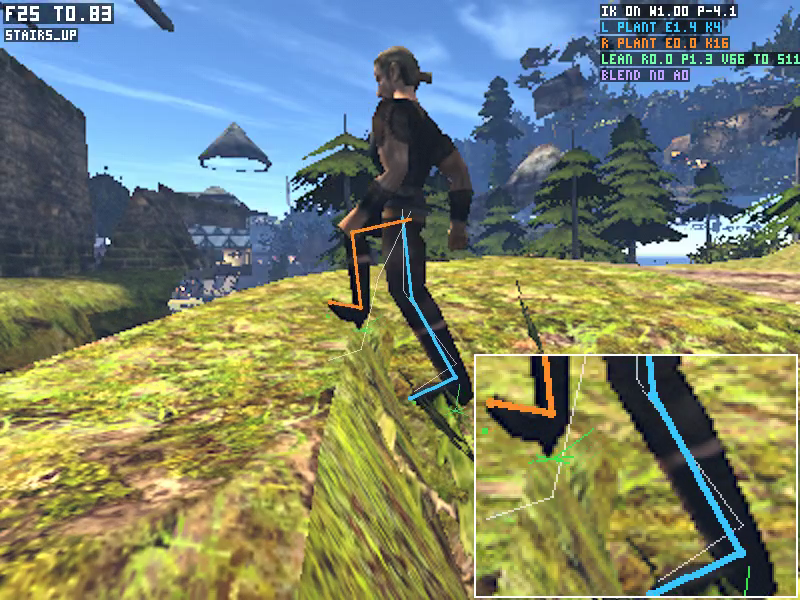
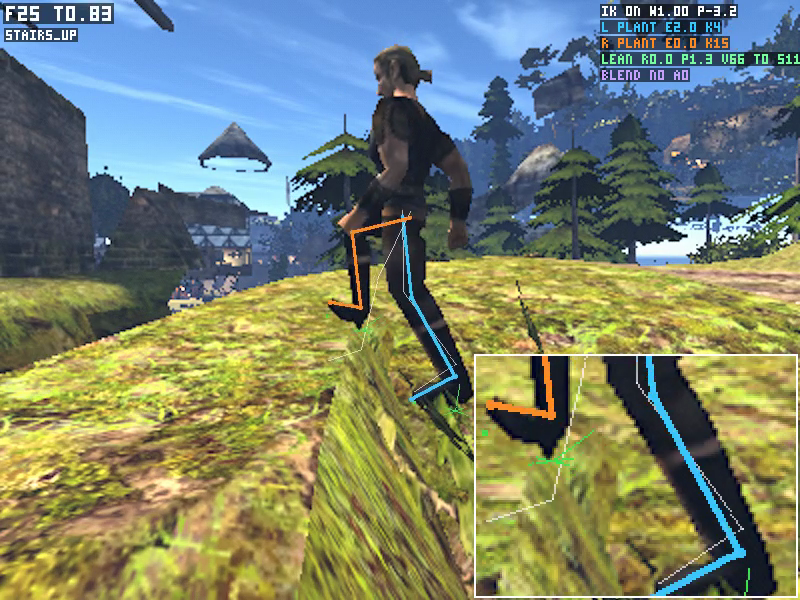
Smooth the hero model height during CharacterVirtual walking

diff --git a/scripts/character_virtual_compare.py b/scripts/character_virtual_compare.py
@@ -15,6 +15,7 @@ FRAME_FIELDS = {
     'ground_vx_cm_s', 'ground_vy_cm_s', 'ground_vz_cm_s', 'step_ms',
     'wall_ms', 'captured', 'normal_clock',
 }
+VISUAL_FIELDS = {'visual_x_cm', 'visual_y_cm', 'visual_z_cm'}
 
 WALKING_ROUTES = {'stairs_up', 'stairs_down', 'steep_slope', 'port_edge', 'doorway', 'tavern'}
 
@@ -87,7 +88,7 @@ def read_frames(frame_path, enabled, frames):
         booleans = {'move_held', 'in_air', 'falling', 'swimming', 'cv_enabled', 'cv_active', 'captured', 'normal_clock'}
         for index, raw in enumerate(reader, 2):
             row = {key: value if key == 'route' else flag(value) if key in booleans else number(value)
-                   for key, value in raw.items() if key in FRAME_FIELDS}
+                   for key, value in raw.items() if key in FRAME_FIELDS | VISUAL_FIELDS}
             require(row['route'] and row['dt_ms'] > 0 and row['step_ms'] >= 0 and row['wall_ms'] >= 0,
                     f'{frame_path}:{index}: invalid timing or route')
             require(row['cv_enabled'] is enabled, f'{frame_path}:{index}: configured mode differs from directory')
@@ -159,6 +160,12 @@ def route_result(run, name):
               # This is a comparison fixture: a recorded failure to reach the
               # goal (for example, sliding on an impassable slope) is evidence.
               'pass': True if starts and ends and frames and success is not None and elapsed is not None else None}
+    visual = frames and all(VISUAL_FIELDS <= row.keys() for row in frames)
+    visual_deltas = [abs(b['visual_y_cm'] - a['visual_y_cm']) for a, b in zip(frames, frames[1:])] if visual else []
+    if visual and starts and 'visual_start_cm' in starts[0]:
+        visual_deltas.append(abs(frames[0]['visual_y_cm'] - vector(starts[0]['visual_start_cm'])[1]))
+    result['maximum_visual_vertical_frame_delta_cm'] = max(visual_deltas, default=None)
+    result['maximum_visual_height_offset_cm'] = max((abs(row['visual_y_cm'] - row['y_cm']) for row in frames), default=None) if visual else None
     if 'saw_slide' in end:
         result['saw_slide'] = flag(end['saw_slide'])
     if starts:
@@ -442,13 +449,13 @@ def markdown(result):
     lines = [f'Проверки и полнота данных CharacterVirtual: **{state}**. Пропущенные данные обозначены «—». Исходы маршрутов и известные ограничения оцениваются отдельно.']
     if 'error' in result:
         return '\n'.join(lines + ['', result['error']]) + '\n'
-    lines += ['', '| Маршрут | Дошёл OFF / ON | Время, мс OFF / ON | Застревания >1с OFF / ON | Макс. ΔY, см OFF / ON | Новые падения ON | Кадры native CV ON |',
-              '|---|---|---:|---:|---:|---:|---:|']
+    lines += ['', '| Маршрут | Дошёл OFF / ON | Время, мс OFF / ON | Застревания >1с OFF / ON | Макс. ΔY физики, см OFF / ON | Макс. ΔY модели, см OFF / ON | Новые падения ON | Кадры native CV ON |',
+              '|---|---|---:|---:|---:|---:|---:|---:|']
     for row in result['routes']:
         before, after = row['off'], row['on']
         pair = lambda key: f'{display(before[key])} / {display(after[key])}'
         falls = row['falls']['on_only_positions_cm']
-        lines.append(f"| {display(row['route'])} | {pair('success')} | {pair('elapsed_ms')} | {pair('stalls_over_1s')} | {pair('maximum_vertical_frame_delta_cm')} | {display(len(falls) if falls is not None else None)} | {after['cv_active_frames']} |")
+        lines.append(f"| {display(row['route'])} | {pair('success')} | {pair('elapsed_ms')} | {pair('stalls_over_1s')} | {pair('maximum_vertical_frame_delta_cm')} | {pair('maximum_visual_vertical_frame_delta_cm')} | {display(len(falls) if falls is not None else None)} | {after['cv_active_frames']} |")
     perf = result['performance']
     lines += ['', f"Физика p95 OFF / ON: {display(perf['off'].get('physics_p95_ms'))} / {display(perf['on'].get('physics_p95_ms'))} мс; Δ {display(perf.get('physics_p95_delta_ms'))} мс (лимит +0,3). FPS OFF / ON: {display(perf['off'].get('mean_fps'))} / {display(perf['on'].get('mean_fps'))}; падение {display(perf.get('fps_drop_percent'))}% (лимит 5%). Учитываются только кадры без записи видео с обычными часами."]
     lines += ['', '| Предмет ON | Масса, кг | Гориз. смещение, см | Удержание хода, мс | Гориз. смещение / время хода, см/с | Контакт героя |', '|---|---:|---:|---:|---:|---|']

diff --git a/OpenGothic/common/world/objects/npc.cpp b/OpenGothic/common/world/objects/npc.cpp
@@ -343,6 +343,7 @@ void Npc::load(Serialize &fin, size_t id, std::string_view directory) {
     sym->set_instance(hnpc);
 
   fin.read(x,y,z,angle,sz);
+  resetCharacterVisualHeight();
   fin.read(wlkMode,trGuild,talentsSk,talentsVl,refuseTalkMilis);
   durtyTranform = TR_Pos|TR_Rot|TR_Scale;
   if(fin.version()<55)
@@ -541,6 +542,7 @@ bool Npc::setPosition(float ix, float iy, float iz) {
   x = ix;
   y = iy;
   z = iz;
+  resetCharacterVisualHeight();
   if(liveTeleport) {
     // Recreate at the destination instead of sweeping a kinematic body through
     // every item between a scripted teleport's endpoints.
@@ -1336,7 +1338,17 @@ Vec3 Npc::position() const {
   }
 
 Matrix4x4 Npc::transform() const {
-  return visual.transform();
+  auto matrix = visual.transform();
+  // Gameplay users of this matrix retain the exact origin. The presentation
+  // correction belongs to the model, its attachments and the foot IK frame only.
+  if(characterVisualYOffset!=0)
+    matrix.set(3,1,matrix.at(3,1)-characterVisualYOffset);
+  return matrix;
+  }
+
+Vec3 Npc::characterVisualPosition() const {
+  const auto& matrix = visual.transform();
+  return {matrix.at(3,0),matrix.at(3,1),matrix.at(3,2)};
   }
 
 Vec3 Npc::cameraBone(bool isFirstPerson) const {
@@ -6515,6 +6527,58 @@ void Npc::updateTransform() {
   updateAnimation(0, true);
   }
 
+void Npc::resetCharacterVisualHeight() {
+  if(characterVisualYOffset!=0)
+    durtyTranform |= TR_Pos;
+  characterVisualSteps.clear();
+  characterVisualYOffset = 0;
+  characterVisualHasSample = false;
+  characterVisualGroundSample = false;
+  }
+
+void Npc::updateCharacterVisualHeight() {
+  if(!isPlayer()) {
+    if(characterVisualHasSample)
+      resetCharacterVisualHeight();
+    return;
+    }
+  constexpr uint64_t blendMilliseconds = 100;
+  const auto now = owner.tickCount();
+  const bool groundState = !isDown() && !spellFrozen() && interactive()==nullptr &&
+                           (mvAlgo.state()==MoveAlgo::Run || mvAlgo.state()==MoveAlgo::Slide) &&
+                           !(bodyStateMasked()==BS_JUMP && isFlyAnim());
+  const bool enabled = Gothic::physicsFlags().characterVirtual &&
+                        mvAlgo.characterVirtualActive() && groundState;
+  const float previousOffset = characterVisualYOffset;
+
+  if(!enabled || (characterVisualHasSample && now<characterVisualSampleTick)) {
+    characterVisualSteps.clear();
+    characterVisualYOffset = 0;
+    }
+  else {
+    auto alive = std::find_if(characterVisualSteps.begin(),characterVisualSteps.end(),[now](const CharacterVisualStep& step) {
+      return now-step.tick<blendMilliseconds;
+      });
+    characterVisualSteps.erase(characterVisualSteps.begin(),alive);
+    // Applying the same finite filter to Run and Slide keeps the rendered height
+    // within the physical samples from the last 100 ms, including state changes.
+    if(characterVisualHasSample && characterVisualGroundSample && y!=characterVisualSampleY)
+      characterVisualSteps.push_back({now,characterVisualSampleY-y});
+    characterVisualYOffset = 0;
+    for(const auto& step:characterVisualSteps)
+      characterVisualYOffset += step.offset*(1.f-float(now-step.tick)/float(blendMilliseconds));
+    }
+
+  // Keep a baseline even while the freshly loaded controller is inactive. Its first
+  // floor correction can then blend from the saved height, while airborne handoffs snap.
+  characterVisualHasSample = true;
+  characterVisualGroundSample = groundState;
+  characterVisualSampleY = y;
+  characterVisualSampleTick = now;
+  if(characterVisualYOffset!=previousOffset)
+    durtyTranform |= TR_Pos;
+  }
+
 void Npc::updateAnimation(uint64_t dt, bool force) {
   FrameProfile::Scope timing(FrameProfile::Zone::ActorAnimationCpu,FrameProfile::watchedActor(this));
   const bool frozen = spellFrozen();
@@ -6522,6 +6586,8 @@ void Npc::updateAnimation(uint64_t dt, bool force) {
   const auto camera = Gothic::inst().camera();
   if(isPlayer() && camera!=nullptr && camera->isFree())
     dt = 0;
+
+  updateCharacterVisualHeight();
 
   if(durtyTranform) {
     const auto ground = groundNormal();
@@ -6535,10 +6601,11 @@ void Npc::updateAnimation(uint64_t dt, bool force) {
     if(durtyTranform==TR_Pos) {
       pos = visual.transform();
       pos.set(3,0,x);
-      pos.set(3,1,y);
+      pos.set(3,1,y+characterVisualYOffset);
       pos.set(3,2,z);
       } else {
       pos = mkPositionMatrix();
+      pos.set(3,1,pos.at(3,1)+characterVisualYOffset);
       }
 
     visual.setObjMatrix(pos,false);

diff --git a/OpenGothic/common/testbench.cpp b/OpenGothic/common/testbench.cpp
@@ -628,7 +628,7 @@ struct Bench {
   struct CharacterFrame {
     std::string route;
     uint64_t frame=0,time=0,dt=0;
-    Vec3 root,groundVelocity;
+    Vec3 root,groundVelocity,visualRoot;
     bool moving=false,air=false,fall=false,swim=false,enabled=false,active=false,captured=false,normal=false;
     float physics=0,wall=0;
   };
@@ -1214,13 +1214,14 @@ void finish() {
   stopRecording();
   if(!bench.characterFrames.empty()) {
     if(auto* file=std::fopen((outDir+"/character-frames.csv").c_str(),"w")) {
-      std::fprintf(file,"route,frame,t_game_ms,dt_ms,x_cm,y_cm,z_cm,move_held,in_air,falling,swimming,cv_enabled,cv_active,ground_vx_cm_s,ground_vy_cm_s,ground_vz_cm_s,step_ms,wall_ms,captured,normal_clock\n");
+      std::fprintf(file,"route,frame,t_game_ms,dt_ms,x_cm,y_cm,z_cm,move_held,in_air,falling,swimming,cv_enabled,cv_active,ground_vx_cm_s,ground_vy_cm_s,ground_vz_cm_s,step_ms,wall_ms,captured,normal_clock,visual_x_cm,visual_y_cm,visual_z_cm\n");
       for(const auto& row:bench.characterFrames)
-        std::fprintf(file,"%s,%llu,%llu,%llu,%.9g,%.9g,%.9g,%d,%d,%d,%d,%d,%d,%.9g,%.9g,%.9g,%.9g,%.9g,%d,%d\n",
+        std::fprintf(file,"%s,%llu,%llu,%llu,%.9g,%.9g,%.9g,%d,%d,%d,%d,%d,%d,%.9g,%.9g,%.9g,%.9g,%.9g,%d,%d,%.9g,%.9g,%.9g\n",
           row.route.c_str(),(unsigned long long)row.frame,(unsigned long long)row.time,(unsigned long long)row.dt,
           double(row.root.x),double(row.root.y),double(row.root.z),int(row.moving),int(row.air),int(row.fall),int(row.swim),
           int(row.enabled),int(row.active),double(row.groundVelocity.x),double(row.groundVelocity.y),double(row.groundVelocity.z),
-          double(row.physics),double(row.wall),int(row.captured),int(row.normal));
+          double(row.physics),double(row.wall),int(row.captured),int(row.normal),
+          double(row.visualRoot.x),double(row.visualRoot.y),double(row.visualRoot.z));
       std::fclose(file);
       } else event("character_error","\"reason\":\"cannot write native character frames\"");
     }
@@ -4017,7 +4018,7 @@ bool prepareCharacterRoute(World& world,Npc& player,const std::string& name,bool
 
 void characterSnapshot(World& world,Npc& player,std::string_view operation) {
   event("character_snapshot","\"operation\":"+jsonStr(operation)+",\"world\":"+jsonStr(world.name())+
-    ",\"root_cm\":"+ragdollVector(player.position())+",\"cv_enabled\":"+
+    ",\"root_cm\":"+ragdollVector(player.position())+",\"visual_root_cm\":"+ragdollVector(player.characterVisualPosition())+",\"cv_enabled\":"+
     (Gothic::physicsFlags().characterVirtual?"true":"false")+
     ",\"cv_active\":"+(player.characterVirtualActive()?"true":"false"));
   }
@@ -4050,7 +4051,7 @@ void characterFields(World& world,Npc& player,uint64_t dt,PlayerControl& ctrl) {
   const std::string rideLabel=bench.characterMover?"ride_mover":bench.characterPlatform?"ride_kinematic":"ride_dynamic";
   const std::string label=bench.characterMeasuring?"performance":route.active?route.name:bench.characterRiding?rideLabel:bench.characterPropRole;
   if(!normal || wall>0)bench.characterFrames.push_back({label,bench.characterFrame++,world.tickCount(),dt,position,
-    player.characterVirtualGroundVelocity(),move,player.isInAir(),player.isFalling(),player.isSwim(),
+    player.characterVirtualGroundVelocity(),player.characterVisualPosition(),move,player.isInAir(),player.isFalling(),player.isSwim(),
     Gothic::physicsFlags().characterVirtual,player.characterVirtualActive(),bench.rec && bench.recVideo,normal,
     world.physic()->physicsStats().stepMilliseconds,wall});
   if(bench.characterMeasuring) {
@@ -4216,6 +4217,7 @@ void exec(const std::string& line, World& w, Npc& pl, PlayerControl& ctrl) {
     route.began=w.tickCount();route.lastSupported=route.start;
     bench.characterHasWall=false;
     event("character_route_begin","\"route\":"+jsonStr(route.name)+",\"start_cm\":"+ragdollVector(route.start)+
+      ",\"visual_start_cm\":"+ragdollVector(pl.characterVisualPosition())+
       ",\"goal_cm\":"+ragdollVector(route.goal)+",\"tolerance_cm\":"+ragdollNumber(route.tolerance)+
       ",\"cv_enabled\":"+(Gothic::physicsFlags().characterVirtual?"true":"false"));
     }

diff --git a/OpenGothic/common/world/objects/npc.h b/OpenGothic/common/world/objects/npc.h
@@ -24,6 +24,7 @@
 #include <cstdint>
 #include <optional>
 #include <string>
+#include <vector>
 
 #include <zenkit/addon/daedalus.hh>
 
@@ -502,6 +503,7 @@ class Npc final {
     float     physicsMass() const;
     bool      characterVirtualActive() const { return mvAlgo.characterVirtualActive(); }
     Tempest::Vec3 characterVirtualGroundVelocity() const { return mvAlgo.characterVirtualGroundVelocity(); }
+    Tempest::Vec3 characterVisualPosition() const;
     bool      addSpellImpulse(const Tempest::Vec3& impulseNs, bool reaction=true, Npc* culprit=nullptr);
     Tempest::Vec3 spellVelocity() const { return mvAlgo.spellVelocity(); }
     bool      spellWhirling() const;
@@ -732,6 +734,8 @@ class Npc final {
     bool               isAlignedToGround() const;
     Tempest::Vec3      groundNormal() const;
     Tempest::Matrix4x4 mkPositionMatrix() const;
+    void               resetCharacterVisualHeight();
+    void               updateCharacterVisualHeight();
     void               releaseRagdoll(bool blend);
     bool               recoverRagdoll();
     bool               createRagdoll();
@@ -766,6 +770,17 @@ class Npc final {
     // visual props (cache)
     uint8_t                        durtyTranform=0;
     Tempest::Vec3                  lastGroundNormal;
+    // Transient presentation only: each grounded controller correction fades in 100 ms.
+    struct CharacterVisualStep {
+      uint64_t tick = 0;
+      float    offset = 0;
+      };
+    std::vector<CharacterVisualStep> characterVisualSteps;
+    float                          characterVisualYOffset = 0;
+    float                          characterVisualSampleY = 0;
+    uint64_t                       characterVisualSampleTick = 0;
+    bool                           characterVisualHasSample = false;
+    bool                           characterVisualGroundSample = false;
 
     DynamicWorld::NpcItem          physic;
     std::unique_ptr<Ragdoll>       living;

diff --git a/reports/physics/2026-10-16-character-virtual/validation-notes.md b/reports/physics/2026-10-16-character-virtual/validation-notes.md
@@ -1,31 +1,33 @@
 # CharacterVirtual: этап 5, шаг 1, проба руками
 
-Герой ходит на `CharacterVirtual` под флагом, по умолчанию **0**. Итоговая сборка прошла восемь маршрутов ON; OFF прошёл шесть, застряв на обеих лестницах. Застревания >1 с: **0 ON / 2 OFF**, новых падений с края в ON — **0**. Ограничение усилия уменьшило смещение стола 122 кг с **179,10 до 11,80 см** за 3 с удержания хода; кружка прошла **287,32 см**, бочка — **78,17 см**. p95 физики OFF/ON **0,3575 / 0,3723 мс**, прибавка **0,0148 мс** при лимите 0,3 мс; средний FPS **79,35 / 78,42**, снижение **1,17%** при лимите 5%. Реальный mover перевёз героя с дрейфом **0,332 см** и принят по решению пользователя. Включение по умолчанию ожидает ручной пробы.
+Герой ходит на `CharacterVirtual` под флагом, по умолчанию **0**. Первоначальный полный стенд прошёл восемь маршрутов ON; OFF прошёл шесть, застряв на обеих лестницах. После ревью заново сняты лестницы вверх/вниз, таверна и затронутый визуальным сглаживанием крутой склон: **4/4 ON**, без застреваний и новых падений. Скачок в таверне уменьшился с **12,477 до 0,0012 см**: лёгкая кружка больше не служит опорой. Видимая высота модели догоняет точный физический корень за **100 мс**; на лестницах максимум ΔY модели **6,545 / 6,235 см** вверх/вниз при физическом **8,118 / 6,236 см**. Застревания >1 с: **0 ON / 2 OFF**, новых падений с края в ON — **0**. Ограничение усилия уменьшило смещение стола 122 кг с **179,10 до 11,80 см** за 3 с удержания хода; кружка прошла **287,32 см**, бочка — **78,17 см**. На сборке до этих двух правок p95 физики OFF/ON **0,3575 / 0,3723 мс**, прибавка **0,0148 мс** при лимите 0,3 мс; средний FPS **79,35 / 78,42**, снижение **1,17%** при лимите 5%. Реальный mover перевёз героя с дрейфом **0,332 см** и принят по решению пользователя. Включение по умолчанию ожидает ручной пробы.
 
 ## Парные маршруты
 
-Одинаковые начальные координаты, цели, seed 73013, время 12:00 и реальные удерживаемые клавиши в независимых процессах. Ближние NPC заморожены до первого тика, чтобы важные диалоги не перехватывали управление; это только подготовка стенда. Видео и кадровые метрики записаны с фиксированным шагом 30 Гц, **это не измерение FPS**. Во всех **510/510** кадрах шести маршрутов ходьбы ON работал именно CV; прыжок и плавание используют прежний путь.
+Одинаковые начальные координаты, цели, seed 73013, время 12:00 и реальные удерживаемые клавиши в независимых процессах. Ближние NPC заморожены до первого тика, чтобы важные диалоги не перехватывали управление; это только подготовка стенда. Видео и кадровые метрики записаны с фиксированным шагом 30 Гц, **это не измерение FPS**. В новых дублях лестниц, таверны и крутого склона CV работал во всех **345/345** кадрах; прежний полный дубль подтвердил **510/510** кадров шести маршрутов ходьбы. Прыжок и плавание используют прежний путь. Столбцы физики и модели разделены: `visual_y_cm` — фактическая трансляция модели после сглаживания, без анимационного движения костей. Для старых видео этот показатель не записывался и обозначен «—».
 
-| Маршрут | Дошёл OFF / ON | Время, с OFF / ON | Застревания >1 с OFF / ON | Макс. ΔY за кадр, см OFF / ON | Падения только ON | Видео |
-|---|---|---:|---:|---:|---:|---|
-| Лестница вверх | нет / да | 2,500* / 2,033 | 1 / 0 | 1,166 / 8,118 | 0 | [OFF](../../../.bench/character-virtual/routes-off-release/stairs_up.mp4) / [ON](../../../.bench/character-virtual/routes-on-release/stairs_up.mp4) |
-| Лестница вниз | нет / да | 2,500* / 1,200 | 1 / 0 | 0,198 / 6,236 | 0 | [OFF](../../../.bench/character-virtual/routes-off-release/stairs_down.mp4) / [ON](../../../.bench/character-virtual/routes-on-release/stairs_down.mp4) |
-| Крутой склон вниз | да / да | 0,567 / 0,200 | 0 / 0 | 16,047 / 21,137 | 0 | [OFF](../../../.bench/character-virtual/routes-off-release/steep_slope.mp4) / [ON](../../../.bench/character-virtual/routes-on-release/steep_slope.mp4) |
-| Край порта | да / да | 1,800 / 1,800 | 0 / 0 | 0,442 / 0,196 | 0 | [OFF](../../../.bench/character-virtual/port-off-open/port_edge.mp4) / [ON](../../../.bench/character-virtual/port-on-open/port_edge.mp4) |
-| Узкий проём | да / да | 1,067 / 1,067 | 0 / 0 | 1,865 / 1,922 | 0 | [OFF](../../../.bench/character-virtual/routes-off-release/doorway.mp4) / [ON](../../../.bench/character-virtual/routes-on-release/doorway.mp4) |
-| Таверна Корагона | да / да | 1,900 / 2,067 | 0 / 0 | 0,001 / 12,477 | 0 | [OFF](../../../.bench/character-virtual/routes-off-release/tavern.mp4) / [ON](../../../.bench/character-virtual/routes-on-release/tavern.mp4) |
-| Прыжок на уступ | да / да | 0,933 / 0,933 | 0 / 0 | 9,014 / 9,014 | 0 | [OFF](../../../.bench/character-virtual/routes-off-release/jump_ledge.mp4) / [ON](../../../.bench/character-virtual/routes-on-release/jump_ledge.mp4) |
-| Вход в воду | да / да | 4,733 / 4,733 | 0 / 0 | 5,688 / 5,688 | 0 | [OFF](../../../.bench/character-virtual/routes-off-release/water_entry.mp4) / [ON](../../../.bench/character-virtual/routes-on-release/water_entry.mp4) |
+| Маршрут | Дошёл OFF / ON | Время, с OFF / ON | Застревания >1 с OFF / ON | Макс. ΔY физики, см OFF / ON | Макс. ΔY модели, см OFF / ON | Падения только ON | Видео |
+|---|---|---:|---:|---:|---:|---:|---|
+| Лестница вверх | нет / да | 2,500* / 2,033 | 1 / 0 | 1,166 / 8,118 | 1,166 / 6,545 | 0 | [OFF](../../../.bench/character-virtual/review-final-off/stairs_up.mp4) / [ON](../../../.bench/character-virtual/review-final-on/stairs_up.mp4) |
+| Лестница вниз | нет / да | 2,500* / 1,200 | 1 / 0 | 0,198 / 6,236 | 0,198 / 6,235 | 0 | [OFF](../../../.bench/character-virtual/review-final-off/stairs_down.mp4) / [ON](../../../.bench/character-virtual/review-final-on/stairs_down.mp4) |
+| Крутой склон вниз | да / да | 0,567 / 0,200 | 0 / 0 | 16,047 / 21,137 | 16,047 / 20,409 | 0 | [OFF](../../../.bench/character-virtual/review-slope-off/steep_slope.mp4) / [ON](../../../.bench/character-virtual/review-slope-on/steep_slope.mp4) |
+| Край порта | да / да | 1,800 / 1,800 | 0 / 0 | 0,442 / 0,196 | — / — | 0 | [OFF](../../../.bench/character-virtual/port-off-open/port_edge.mp4) / [ON](../../../.bench/character-virtual/port-on-open/port_edge.mp4) |
+| Узкий проём | да / да | 1,067 / 1,067 | 0 / 0 | 1,865 / 1,922 | — / — | 0 | [OFF](../../../.bench/character-virtual/routes-off-release/doorway.mp4) / [ON](../../../.bench/character-virtual/routes-on-release/doorway.mp4) |
+| Таверна Корагона | да / да | 1,900 / 2,000 | 0 / 0 | 0,0010 / 0,0012 | 0,0010 / 0,0010 | 0 | [OFF](../../../.bench/character-virtual/review-final-off/tavern.mp4) / [ON](../../../.bench/character-virtual/review-final-on/tavern.mp4) |
+| Прыжок на уступ | да / да | 0,933 / 0,933 | 0 / 0 | 9,014 / 9,014 | — / — | 0 | [OFF](../../../.bench/character-virtual/routes-off-release/jump_ledge.mp4) / [ON](../../../.bench/character-virtual/routes-on-release/jump_ledge.mp4) |
+| Вход в воду | да / да | 4,733 / 4,733 | 0 / 0 | 5,688 / 5,688 | — / — | 0 | [OFF](../../../.bench/character-virtual/routes-off-release/water_entry.mp4) / [ON](../../../.bench/character-virtual/routes-on-release/water_entry.mp4) |
 
-\* Окно закончилось, цель не достигнута. Застревание — удерживаемый ход в радиусе 5 см более 1000 мс. Максимальный ΔY включает остановку после достижения цели. Падения сравниваются по нативному состоянию и месту; запланированный прыжок и вход в воду исключены. На склоне **64,453°** оба режима действительно вошли в `Slide` (`saw_slide=true`, порог гильдии 50°), у воды оба вошли в `Swim`. Для ручной пробы особенно важны более быстрый спуск ON и скачок **12,48 см** в таверне. На склоне рядом заморожен зверь, его столкновения остаются в сцене.
+\* Окно закончилось, цель не достигнута. Застревание — удерживаемый ход в радиусе 5 см более 1000 мс. Максимальный ΔY включает остановку после достижения цели. Падения сравниваются по нативному состоянию и месту; запланированный прыжок и вход в воду исключены. На склоне **64,453°** оба режима действительно вошли в `Slide` (`saw_slide=true`, порог гильдии 50°), у воды оба вошли в `Swim`. Для ручной пробы особенно важен более быстрый спуск ON. На лестнице вниз несколько кадров подряд дают около 6 см снижения: окно 100 мс сглаживает начало и остановку, но не убирает эту скорость. Максимальная вторая разность Y (изменение межкадрового смещения) в ON снижается с **6,213 до 2,852 см** вверх и с **3,956 до 1,980 см** вниз. Физическая траектория лестниц сохранилась точно (максимальное XYZ-расхождение с прежним полным дублем **0 см** в обоих режимах); мягкость не равна OFF. На быстром крутом спуске визуальное отставание от физического Y достигает **41,734 см** внутри окна 100 мс — это заметный компромисс общего сглаживания `Run/Slide`, который следует оценить руками. На лестницах максимальное отставание **12,612 / 12,226 см** вверх/вниз. На склоне рядом заморожен зверь, его столкновения остаются в сцене.
 
-Камеры уступа и воды подняты и отдалены, порт переснят отдельно с подбором видимого угла. Данные остальных семи маршрутов — `routes-{off,on}-release/{events.jsonl,character-frames.csv}`; данные открытого края порта `NW_CITY_HABOUR_06_B` — `port-{off,on}-open/`. Первоначальные `off-prep`, старт склона у подножия, полоса у стены вместо открытого края порта и прерванный при совпадении запусков дубль не входят в эту таблицу.
+Текущие лестницы и таверна — `review-final-{off,on}/{events.jsonl,character-frames.csv}`. Камеры уступа и воды подняты и отдалены, порт переснят отдельно с подбором видимого угла. Склон переснят отдельно в исходном режиме `run`: `review-slope-{off,on}/`. Порт, проём, прыжок и вода приведены из предыдущей сборки: `routes-{off,on}-release/{events.jsonl,character-frames.csv}`; данные открытого края порта `NW_CITY_HABOUR_06_B` — `port-{off,on}-open/`. Первоначальные `off-prep`, старт склона у подножия, полоса у стены вместо открытого края порта и прерванный при совпадении запусков дубль не входят в эту таблицу. Подготовочный склон в режиме `walk` внутри `review-final-*` исключён; таблица использует отдельный склон `run`.
 
 ## Толчок и опоры
 
-Единственная новая правка механики — дозирование усилия. Общий бюджет импульса за один `move`: `min(mHero × g, 450 Н) × dt`. Все контакты, повторные проверки ступеней и все тела делят этот бюджет. На одно тело дополнительно приходится доля `mHero / (mHero + mBody)`; это непрерывная модель усилия при обычной ходьбе без упора, одинаковая для Item и vob. Импульс прикладывается в точку контакта с учётом инерции. Вертикальный вес `mHero × g` на опоре остаётся прежним. Один только native `mMaxStrength=450` дал столу 184,50 см: Jolt ограничивает отдельный контакт, а сопротивление пола для такого стола ниже 450 Н. Поэтому итог использует общий бюджет и долю по массе.
+После ревью лёгкие динамические `Item` и movable vob **<10 кг** не служат опорой; горизонтальный толчок в исходную точку контакта сохраняется. Автошаг и подъём капсулы о бок бочки/стола запрещены, тяжёлая опора под уже стоящим героем и настоящие mover сохраняются. Нативные контракты: утварь 5,8 кг сдвинулась на **64,357 / 69,208 см** (Item / movable), подъём стоп **0,000 см**; низкий стол 122 кг остановил героя на **56,017 см** при центре стола **100 см**, подъём стоп **0,000 см**. Лёгкое тело без пола не удерживает героя. В игре маршрут таверны проходит через место прежней кружки без подъёма физического корня. На видео героя кратко закрывает стена в **0,65–0,80 с**; сам участок кружки в **0,95–1,70 с** виден.
 
-Одинаковые 0,7 с покоя и **3,0 с удержания хода**; смещение по горизонтали от исходной позиции тела. Последний стол не пропущен насквозь (`passed_through=false`), реальный контакт героя подтверждён у всех четырёх предметов. «После» — итоговая сборка.
+Дозирование усилия сохраняется: общий бюджет импульса за один `move` — `min(mHero × g, 450 Н) × dt`. Все контакты, повторные проверки ступеней и все тела делят этот бюджет. На одно тело дополнительно приходится доля `mHero / (mHero + mBody)`; это непрерывная модель усилия при обычной ходьбе без упора, одинаковая для Item и vob. Импульс прикладывается в точку контакта с учётом инерции. Вертикальный вес `mHero × g` на опоре остаётся прежним. Один только native `mMaxStrength=450` дал столу 184,50 см: Jolt ограничивает отдельный контакт, а сопротивление пола для такого стола ниже 450 Н. Поэтому итог использует общий бюджет и долю по массе.
+
+Одинаковые 0,7 с покоя и **3,0 с удержания хода**; смещение по горизонтали от исходной позиции тела. Последний стол не пропущен насквозь (`passed_through=false`), реальный контакт героя подтверждён у всех четырёх предметов. «После» — сборка с общим бюджетом усилия до правок опоры и сглаживания; этот отдельный стенд повторно не запускался.
 
 | Предмет | Масса, кг | До, см | После, см | После / 3 с, см/с | Видео после |
 |---|---:|---:|---:|---:|---|
@@ -40,13 +42,13 @@
 
 ## Проверки
 
-- Сборка `Gothic2Notr` (`RelWithDebInfo`, `OPENGOTHIC_ENABLE_APP_CADENCE=ON`) и `check-physics` — **PASS**. Нативные контракты: ступени вверх 74 кадра / вниз 67, скольжение вдоль стены 750 см, 1 кг / 122 кг — **258,98 / 0,001 см**. Два тела получили **36 + 9 = 45 Н·с** за 0,1 с, подтверждая общий лимит 450 Н. Примитивная кинематическая опора перенесла героя на 60 см по X и 18 см по Y; NPC не сдвинут. Лог: `.bench-check-physics-human-budget.log`.
-- Производительность — **PASS**: отдельные 30-секундные окна без видео и с неподвижной камерой, ход вперёд/назад. Завершённых app-кадров **2381 OFF / 2353 ON**, нативных отсчётов физики **3446 / 3432**. p95 **0,3575 / 0,3723 мс**, Δ **+0,0148 мс**; FPS **79,35 / 78,42**, потеря **1,17%**. Источники: `.bench/character-virtual/perf-{off,on}/appcadence.csv`, metadata `.json`, `character-frames.csv`.
-- Сейв и загрузка новым процессом: корень **[18337,1992; 1097,86035; 1481,9519] см** одинаков в сейвах OFF/ON и сразу после загрузки; ошибка **0 / 0 см**. Первый снимок сделан до первого world tick. **Известное отличие после загрузки:** за следующие 0,533 с ON усаживается на ступенях на **4,215 см**, OFF — на 0,00024 см; разница режимов после усадки **4,215 см**. Это не ошибка сериализации, но для ручной пробы результат не скрыт. Источники: `save-{off,on}/events.jsonl`, `reload-{off,on}/events.jsonl` в `.bench/character-virtual/`.
-- `m5b`, `LLM=fake`, флаг ON на итоговой сборке: **14/14**, **0 failed**, один игровой запуск. Логи: `.bench/character-virtual/m5b-final/{server.log,game.log}`, начальный флаг `character_virtual=1` в `Gothic.ini`.
+- Сборка `Gothic2Notr` (`RelWithDebInfo`, `OPENGOTHIC_ENABLE_APP_CADENCE=ON`) и `check-physics` — **PASS**. Нативные контракты: ступени вверх 74 кадра / вниз 67, скольжение вдоль стены 750 см, 1 кг / 122 кг — **300,26 / 0,00 см**. Новые случаи утвари и низкого стола выше прошли. Два тела получили **36 + 9 = 45 Н·с** за 0,1 с, подтверждая общий лимит 450 Н. Примитивная кинематическая опора перенесла героя на 60 см по X и 18 см по Y; NPC не сдвинут. Лог: `.bench-check-physics-review-blend.log`.
+- Производительность до этих двух правок — **PASS**, по указанию пользователя повторно не измерялась: отдельные 30-секундные окна без видео и с неподвижной камерой, ход вперёд/назад. Завершённых app-кадров **2381 OFF / 2353 ON**, нативных отсчётов физики **3446 / 3432**. p95 **0,3575 / 0,3723 мс**, Δ **+0,0148 мс**; FPS **79,35 / 78,42**, потеря **1,17%**. Источники: `.bench/character-virtual/perf-{off,on}/appcadence.csv`, metadata `.json`, `character-frames.csv`.
+- Сейв и загрузка новым процессом: корень **[18337,1992; 1097,86035; 1481,9519] см** одинаков в сейвах OFF/ON и сразу после загрузки; ошибка **0 / 0 см**. Первый снимок сделан до первого world tick. **Известное отличие после загрузки:** за следующие 0,533 с ON смещается на **4,215 см**: ΔXYZ **[+4,014; −0,751; −1,045] см**, OFF — на 0,00024 см по Y. Таким образом, вертикальная усадка только **0,751 см**, остальное — X/Z. Новый фильтр предназначен для вертикальной части; горизонтальный сдвиг остаётся известным отличием. Сериализация и физическая позиция не изменены, save/load после этих правок повторно не запускался. Источники: `save-{off,on}/events.jsonl`, `reload-{off,on}/events.jsonl` в `.bench/character-virtual/`.
+- `m5b` до этих двух правок, `LLM=fake`, флаг ON: **14/14**, **0 failed**, один игровой запуск; по указанию пользователя повторно не запускался. Логи: `.bench/character-virtual/m5b-final/{server.log,game.log}`, начальный флаг `character_virtual=1` в `Gothic.ini`.
 - Полный pytest и общая e2e-регрессия не запускались. На Mac ожидались чужие игры и pytest, чужие процессы не останавливались. Видео, логи и сейвы лежат локально, большие файлы в git не добавлены.
 
-Foot IK на итоговой сборке: `stairs_up`, кадр **25**, **0,833 с**, до финиша. `ik_valid=1`, `ik_on=1`, `ik_hardoff=0`, `ik_w=1`, `bad=0`; поверхности под ногами различаются на **33,27 см**. Поправка высоты левой/правой лодыжки **−6,95 / +24,95 см**, ошибка контакта **1,36 / 0 см**. Тонкие белые кости — исходная анимация, цветные — результат IK.
+Foot IK на итоговой сборке: `stairs_up`, кадр **25**, **0,833 с**, до финиша. `ik_valid=1`, `ik_on=1`, `ik_hardoff=0`, `ik_w=1`, `bad=0`; поверхности под ногами различаются на **33,27 см**. Поправка высоты левой/правой лодыжки **−6,15 / +25,10 см**, ошибка контакта **2,01 / 0 см**. Кадр извлечён из нового `review-final-on/stairs_up.mp4`. Тонкие белые кости — исходная анимация, цветные — результат IK.
 
 ![Foot IK на ступенях, CharacterVirtual ON, кадр 25](foot-ik-stairs-on.png)
 
@@ -75,4 +77,4 @@ F2 → `toggle character_virtual`: сообщение показывает ON/OF
 | Прыжок на уступ | `goto pos 13678.11 976.68 -1670.83` | 14008.11, 1045.98, -1670.83 | 0,00 |
 | Вход в воду | `goto pos -3381.40 -481.83 12703.16` | -4733.70, -701.88, 13065.51 | 165,00 |
 
-Сравнить подъём/спуск и положение стоп, скорость скольжения на склоне, прилипание у портового края, проход двери и мебели, переход к прыжку и воде. В таверне отдельно оценить скачок высоты ON, толчок стола и обычную ходьбу среди мебели. После save/load на ступенях обратить внимание на усадку ON. Решение о включении флага по умолчанию остаётся за пользователем после этой пробы.
+Сравнить подъём/спуск и положение стоп, скорость скольжения на склоне, прилипание у портового края, проход двери и мебели, переход к прыжку и воде. В таверне пройти место кружки на полу (z≈1400): герой должен толкать её без подъёма; проверить толчок стола и обычную ходьбу среди мебели. На лестницах сравнить начало и остановку вертикального движения модели после сглаживания 100 мс, особенно быстрый спуск ON. После save/load проверить отдельно вертикальную усадку и горизонтальное смещение ON. Решение о включении флага по умолчанию остаётся за пользователем после этой пробы.

diff --git a/docs/physics.md b/docs/physics.md
@@ -1,6 +1,6 @@
 # Физика: Jolt вместо Bullet
 
-Статус: **этапы 1–4 закрыты**. Ragdoll, подвижные vob и физический шум включены по умолчанию; отключение — `[GAME] ragdoll=0` / `movable_vobs=0` / `physics_noise=0` или соответствующий Marvin `toggle`. С v37 NPC видит следы стрел и мебели, помнит их как «видел сам», а грохот — как «слышал сам»; виновник остаётся в движке и сейве. Стенд: **2/2** следа после загрузки новым процессом, возраст **17 минут**, за стеной и после сдвига на 10 см — **0**, лимит **6 из 9**. Полный `pytest` — **757 passed, 11 skipped**, e2e `seen` — **10/10**, контроль `m5b` — **13/14** и на PR, и на независимой сборке `origin/main` с тем же сейвом: `monster_event` не пришёл, статусы всех 14 проверок совпали, исключений в обоих логах сервера **0**. Это не регрессия PR. Пункт 5 этапа 4 закрыт: `trace` ловит ложь о давности стрелы с fake **20/20** и в двух живых прогонах по **20/20**; оба раза принят `catch_lie` со строкой следа **В2** и записан `caught`, отрицательный контроль — без обвинения. Этап 5: шаг 1 — герой на `CharacterVirtual` под флагом (по умолчанию **0**), стенд ON/OFF снят, сборка для пробы руками: маршруты **8/8 ON / 6/8 OFF**, FPS **−1,17%**, p95 физики **+0,0148 мс**. Реальный mover принят с дрейфом **0,332 см**; искусственная опора с дрейфом 28,013 см остаётся известной проблемой. Этапы 6–7 не начаты. [Подвижные vob и сейв](../reports/physics/2026-10-16-movable-vobs/validation-notes.md), [шум](../reports/physics/2026-10-16-physics-noise/validation-notes.md), [следы и сравнение с main](../reports/physics/2026-10-16-traces/validation-notes.md).
+Статус: **этапы 1–4 закрыты**. Ragdoll, подвижные vob и физический шум включены по умолчанию; отключение — `[GAME] ragdoll=0` / `movable_vobs=0` / `physics_noise=0` или соответствующий Marvin `toggle`. С v37 NPC видит следы стрел и мебели, помнит их как «видел сам», а грохот — как «слышал сам»; виновник остаётся в движке и сейве. Стенд: **2/2** следа после загрузки новым процессом, возраст **17 минут**, за стеной и после сдвига на 10 см — **0**, лимит **6 из 9**. Полный `pytest` — **757 passed, 11 skipped**, e2e `seen` — **10/10**, контроль `m5b` — **13/14** и на PR, и на независимой сборке `origin/main` с тем же сейвом: `monster_event` не пришёл, статусы всех 14 проверок совпали, исключений в обоих логах сервера **0**. Это не регрессия PR. Пункт 5 этапа 4 закрыт: `trace` ловит ложь о давности стрелы с fake **20/20** и в двух живых прогонах по **20/20**; оба раза принят `catch_lie` со строкой следа **В2** и записан `caught`, отрицательный контроль — без обвинения. Этап 5: шаг 1 — герой на `CharacterVirtual` под флагом (по умолчанию **0**), стенд ON/OFF снят, сборка для пробы руками; после ревью утварь не служит ступенькой, высота модели сглаживается за 100 мс. Маршруты полного стенда **8/8 ON / 6/8 OFF**, FPS **−1,17%**, p95 физики **+0,0148 мс**. Реальный mover принят с дрейфом **0,332 см**; искусственная опора с дрейфом 28,013 см остаётся известной проблемой. Этапы 6–7 не начаты. [Подвижные vob и сейв](../reports/physics/2026-10-16-movable-vobs/validation-notes.md), [шум](../reports/physics/2026-10-16-physics-noise/validation-notes.md), [следы и сравнение с main](../reports/physics/2026-10-16-traces/validation-notes.md).
 
 Игра использует Jolt вместо Bullet. Сборки игры, редактора и физических контрактов проходят; тест 100 000 лучей проходит. Оставшиеся различия sphere sweep и p95 `crossbow` / `quad-wolf` приняты пользователем как не влияющие на игру. [Реализация и проверки](../reports/physics/2026-10-14-jolt-stage1/validation-notes.md).
 
@@ -245,7 +245,7 @@ Jolt повторяет симуляцию при тех же входах и т
 
 `CharacterVirtual` для героя и NPC: толкать предметы, стоять на подвижном (подъёмники, корабль), склоны и ступени. Меняет ощущение игры, поэтому решаем после стенда и пробы руками.
 
-**Шаг 1 — герой, стенд ON/OFF и сборка для пробы руками.** Ходьба и бег под флагом `[GAME] character_virtual=1`; по умолчанию **0** до пользовательской пробы. Переключение без перезапуска — Marvin `toggle character_virtual`. `MoveAlgo` сохраняет состояния, анимации и желаемое смещение; `CharacterVirtual` решает столкновения при ходьбе, ступени, склоны и опору. Толчок `Item` и подвижных vob ограничен общим бюджетом **450 Н** и долей по массе тела: стол 122 кг сдвигается на **11,80 см** вместо 179,10 см за 3 с. Прыжки, падение, лазание, плавание и ныряние сохраняют прежний путь; NPC, поиск пути и распорядки не меняются. Маршруты **8/8 ON / 6/8 OFF**, новых падений ON **0**; p95 физики **+0,0148 мс**, FPS **−1,17%**. Реальный mover с дрейфом **0,332 см** принят пользователем, дрейф искусственной опоры **28,013 см** оставлен известным. Сейв восстанавливает точку точно, но ON после загрузки усаживается на ступенях на **4,215 см**; foot IK подтверждён кадром. Сборка, `check-physics` и итоговый `m5b` **14/14** прошли. Решение о включении по умолчанию — после ручной пробы. [Числа, парные видео, ограничения и как попробовать](../reports/physics/2026-10-16-character-virtual/validation-notes.md).
+**Шаг 1 — герой, стенд ON/OFF и сборка для пробы руками.** Ходьба и бег под флагом `[GAME] character_virtual=1`; по умолчанию **0** до пользовательской пробы. Переключение без перезапуска — Marvin `toggle character_virtual`. `MoveAlgo` сохраняет состояния, анимации и желаемое смещение; `CharacterVirtual` решает столкновения при ходьбе, ступени, склоны и опору. Лёгкие `Item` и подвижные vob <10 кг герой толкает без опоры на них; бочка и стол не становятся автоматической ступенькой. Видимая высота модели сглаживается за **100 мс** при точном физическом корне. Толчок ограничен общим бюджетом **450 Н** и долей по массе тела: стол 122 кг сдвигается на **11,80 см** вместо 179,10 см за 3 с. Прыжки, падение, лазание, плавание и ныряние сохраняют прежний путь; NPC, поиск пути и распорядки не меняются. Маршруты **8/8 ON / 6/8 OFF**, новых падений ON **0**; p95 физики **+0,0148 мс**, FPS **−1,17%**. Реальный mover с дрейфом **0,332 см** принят пользователем, дрейф искусственной опоры **28,013 см** оставлен известным. После ревью заново сняты лестницы, таверна и крутой склон: **4/4 ON**, скачок на кружке **12,477 → 0,0012 см**. Максимум ΔY модели на лестницах вверх/вниз **6,545 / 6,235 см**; быстрый спуск и визуальное отставание на крутом склоне остаются предметом ручной пробы. Сейв восстанавливает точку точно; прежнее последующее смещение **4,215 см** состоит из ΔXYZ **[+4,014; −0,751; −1,045] см**. Сглаживание высоты относится к вертикальной части, X/Z не исправлены. Foot IK подтверждён новым кадром. Сборка и `check-physics` после ревью прошли; FPS/p95 и `m5b` **14/14** приведены с предыдущей сборки, повторно не запускались. Решение о включении по умолчанию — после ручной пробы. [Числа, парные видео, ограничения и как попробовать](../reports/physics/2026-10-16-character-virtual/validation-notes.md).
 
 ### Этап 6. Разрушение, вода, ткань
 

diff --git a/scripts/bench/README.md b/scripts/bench/README.md
@@ -534,14 +534,19 @@ exercise the legacy-path handoff.
 
 Held movement is released as soon as the destination is reached; the remainder of the video records the natural stop.
 Each route has its own MP4 and ordinary IK metrics; `foot-ik-stairs.png` is captured on the first
-stair route. `character-frames.csv` additionally records root position, held movement, falling,
+stair route. `character-frames.csv` additionally records the exact physical root and the actual
+model translation (`visual_x_cm`, `visual_y_cm`, `visual_z_cm`), held movement, falling,
 swimming, actual CV use, support velocity and native physics cost after each world tick. A route
 succeeds only after crossing its destination plane within the stated lateral/height tolerance;
 water entry additionally requires the real swimming state. Route-end `saw_slide` establishes whether the
 legacy slope take entered the actual slide state. The analyzer counts continuous held
 input with less than 5 cm of horizontal progress for more than one second, maximum absolute Y
 change per frame and native falls more than 100 cm below the last supported root (planned ledge
-jumps and swimming are excluded). Unmatched falls are compared within a 1 m spatial radius.
+jumps and swimming are excluded). Physical and visual maximum Y changes are reported separately;
+older CSVs without visual columns leave that measurement empty. Unmatched falls are compared
+within a 1 m spatial radius. `character-virtual-review` retakes stairs up/down, the tavern
+and the steep slope after support-filter or visual-height changes, using the same OFF/ON
+environment above. The slope checks the shared Run/Slide presentation blend.
 
 Run `character-virtual-props` with the same OFF/ON environment in separate output directories for
 four equal-duration native contacts: a real potion Item, a beer mug Item, a stock barrel mesh and
